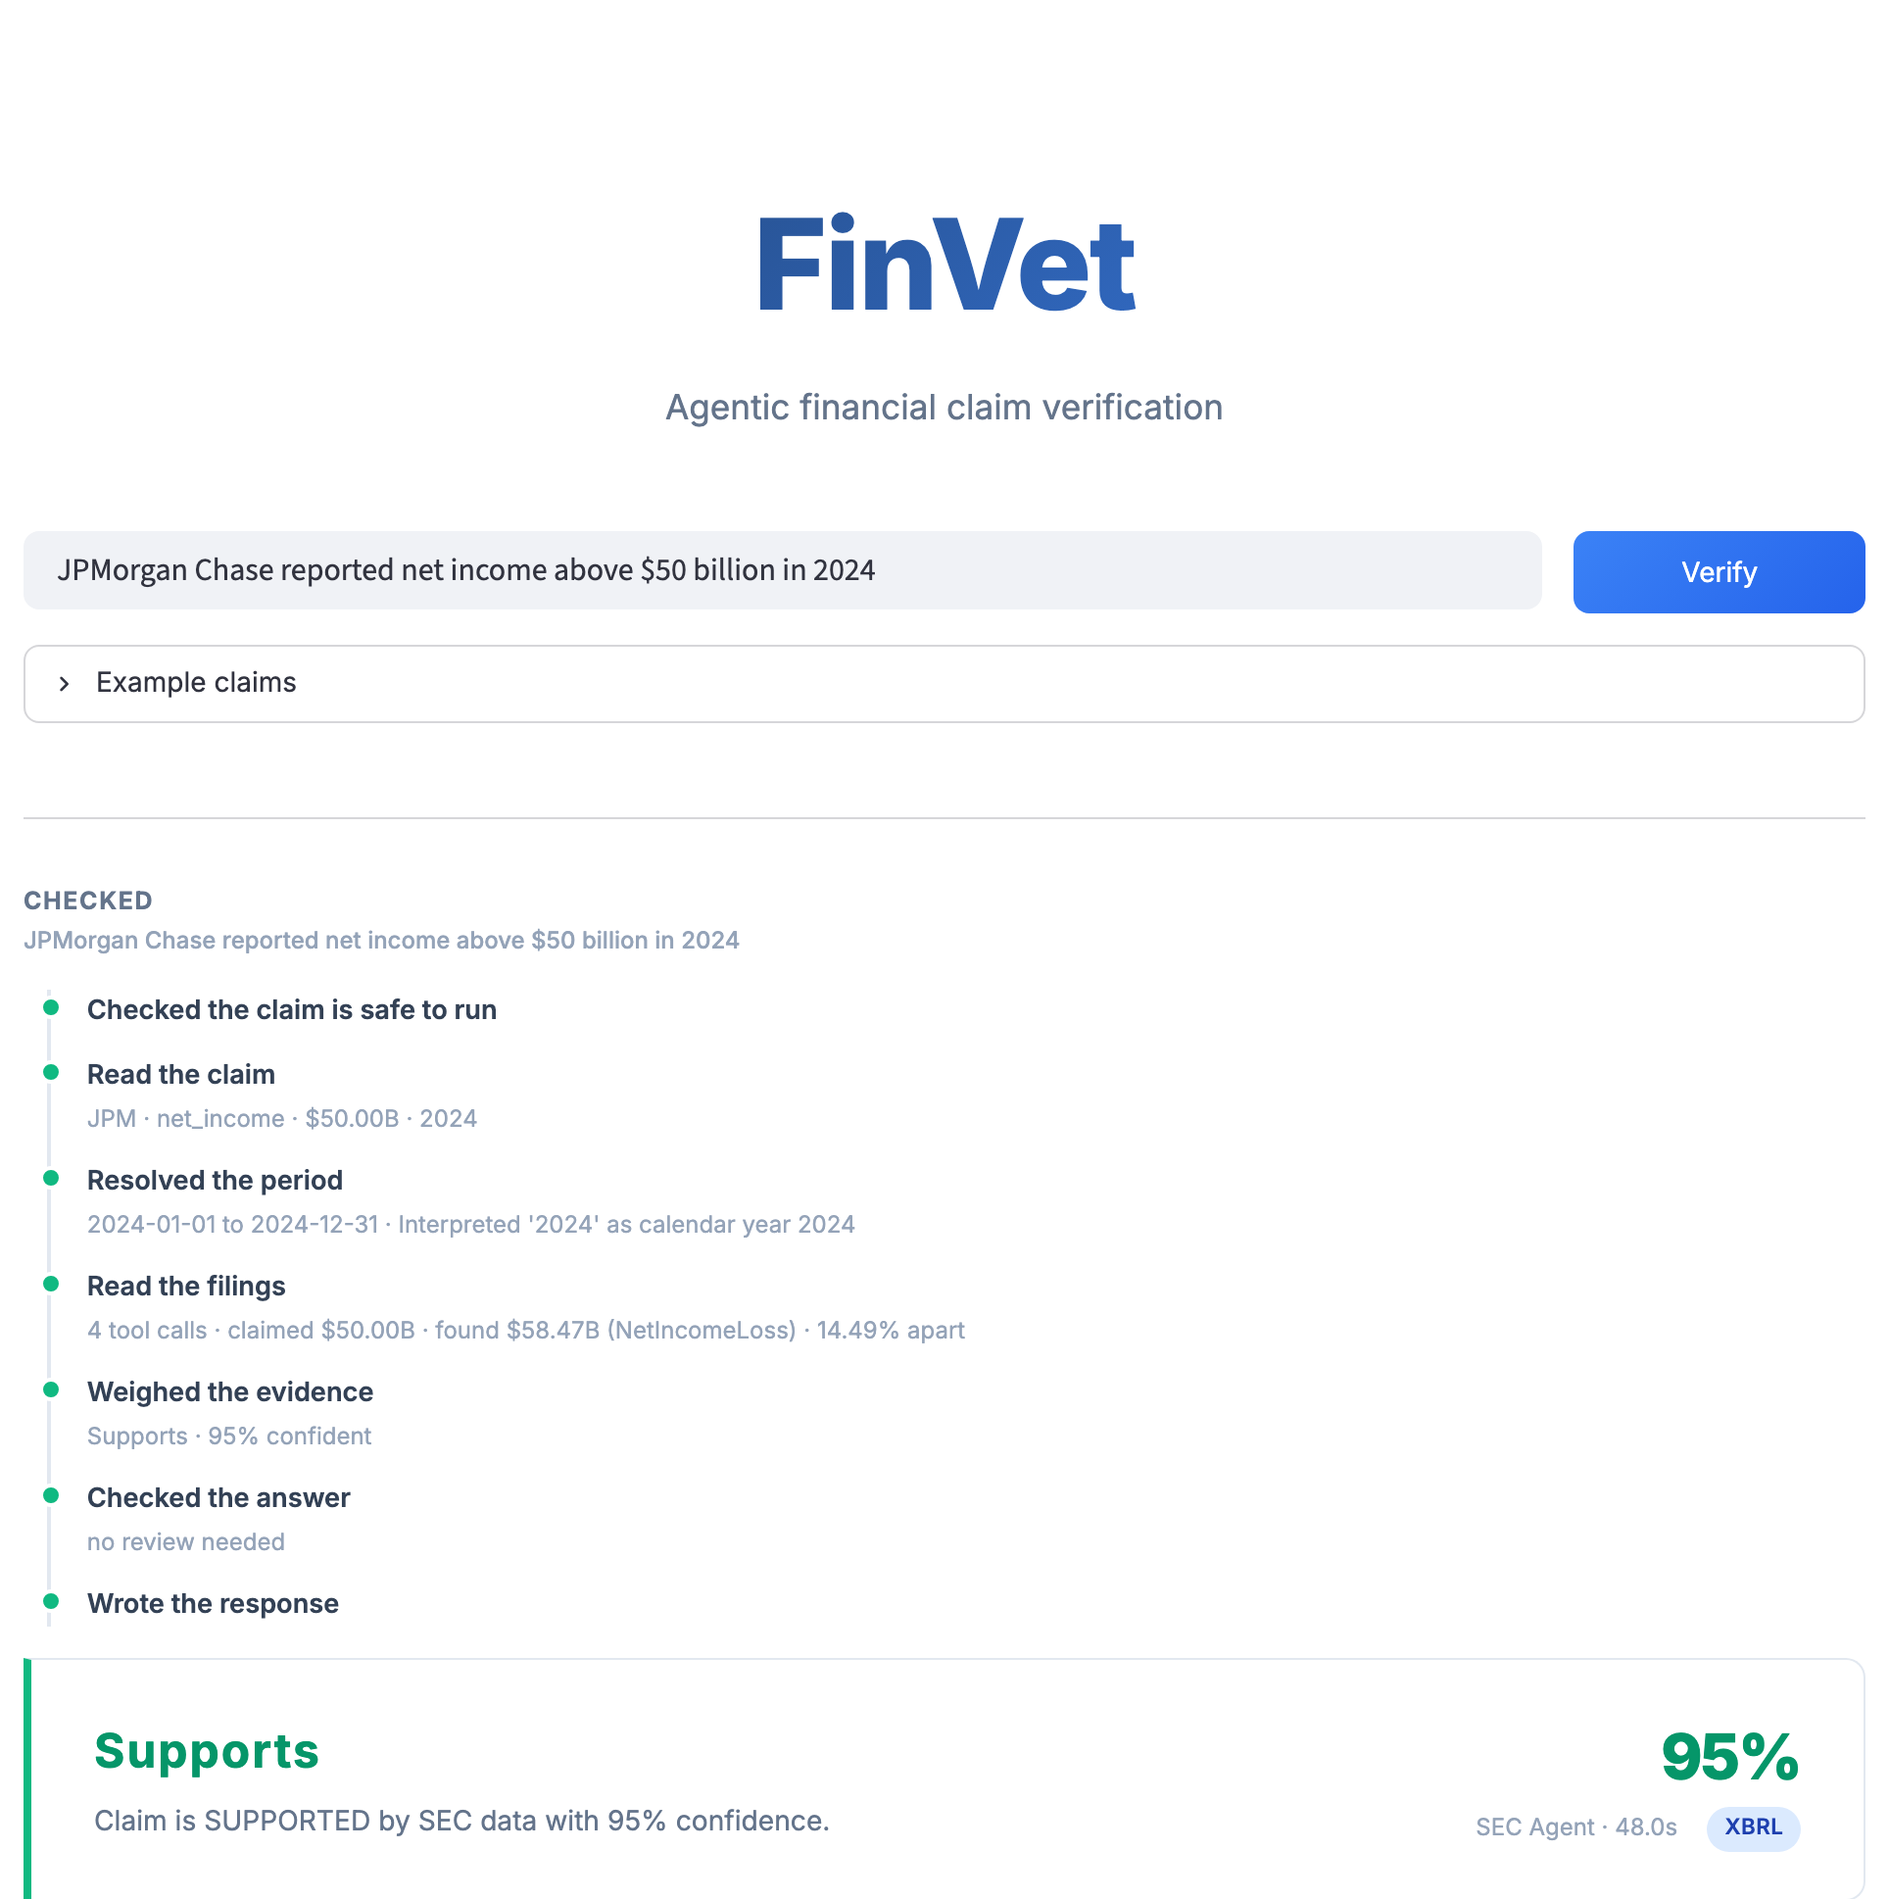
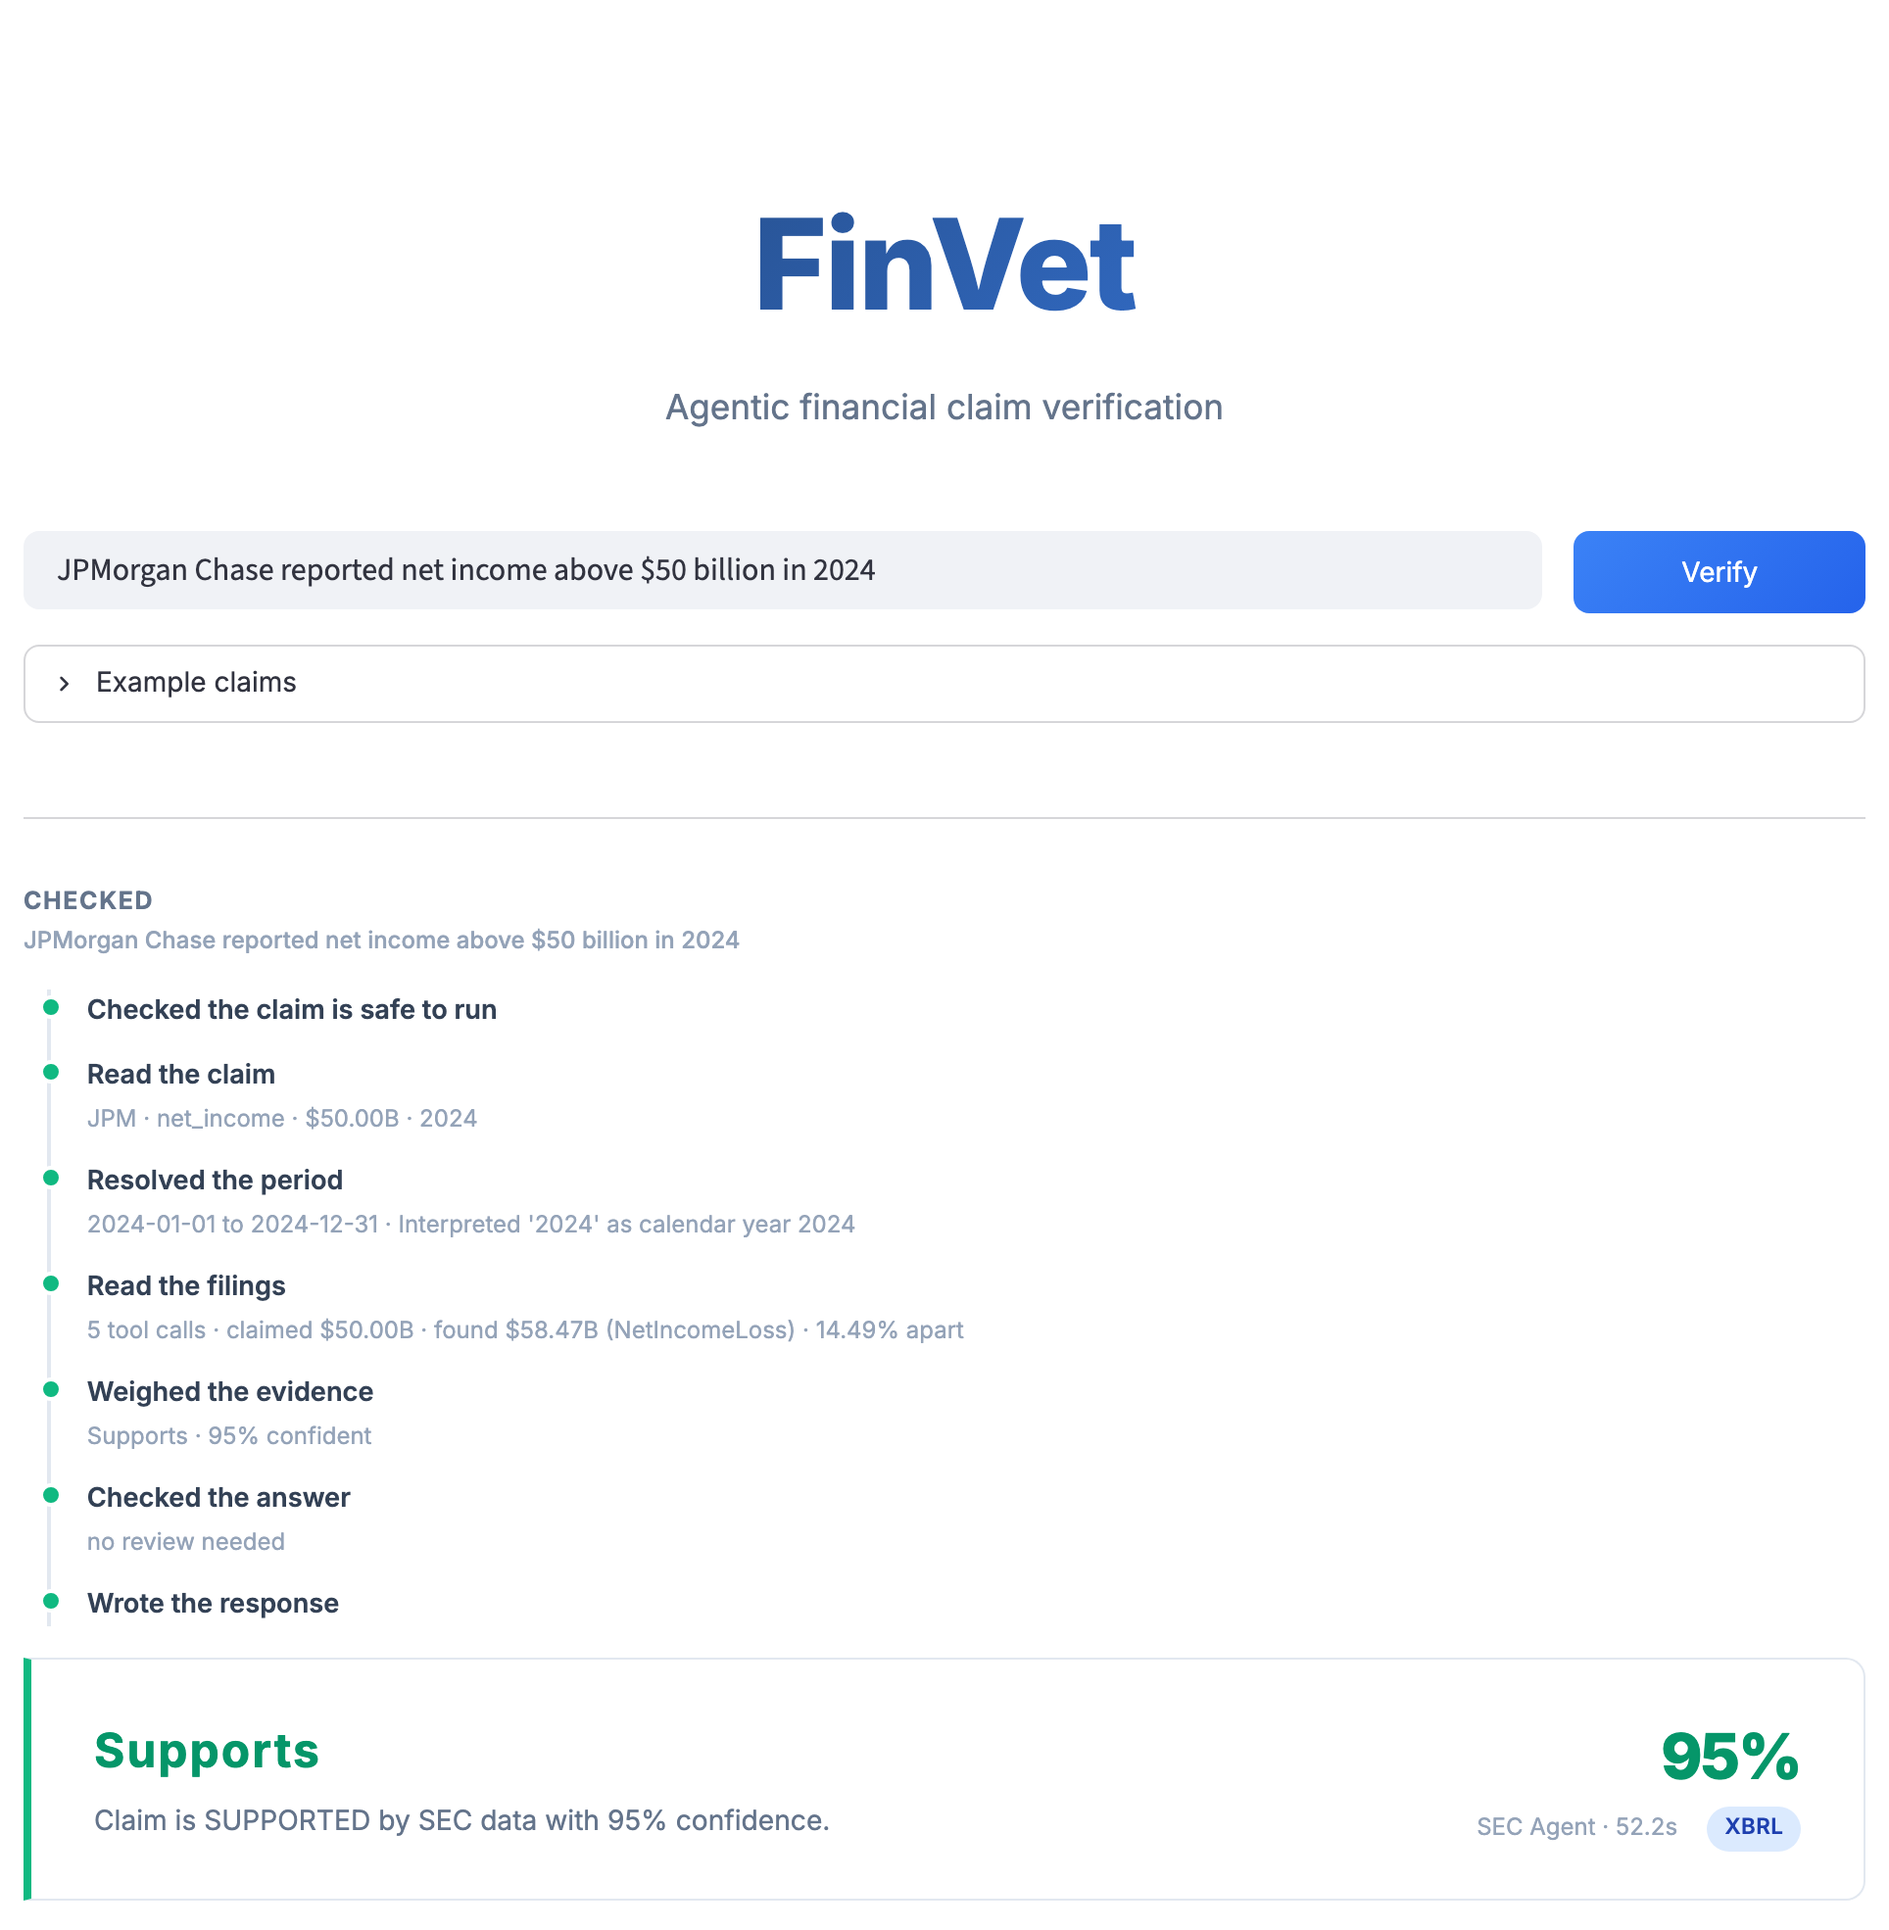
fix: raise the agent's iteration budget after the model behind the alias changed
`deepseek-chat` is an alias. The provider repointed it from deepseek-v4-flash
to deepseek-flash between two runs on the same afternoon, verified against the
completion response rather than assumed. The new model takes five tool calls
where the old took four, and a budget of 5 yields a recursion limit of 11,
which is exactly five calls with no headroom. Every claim began exhausting the
budget and escalating to human review. No code changed; the model did.

Budget 5 -> 8. FINNHUB_TIMEOUT_SECONDS 10 -> 7 moves with it, because the two
multiply and the invariant is the product: a dead market feed must not cost
more than a minute of pure waiting per claim. The guard in
test_finnhub_timeout_is_bounded.py caught the breach at 80s; the timeout came
down rather than the guarantee being relaxed. Worst case is now 56s.

Screenshots recaptured on a working run, and they now show the renamed
"Parsed Claim" expander.

Note for the benchmark: the published runs were served by deepseek-v4-flash
under the deepseek-chat alias at a budget of 5. Neither the artifacts nor
/health record the served model, only the requested name, so the drift guard
compares configuration against configuration and cannot see a provider
repointing an alias underneath it.

diff --git a/src/finvet/config/constants.py b/src/finvet/config/constants.py
@@ -37,7 +37,17 @@ CONSENSUS_MAX_CONFIDENCE = 0.95         # confidence cap
 # ---------------------------------------------------------------------------
 # Agent limits (used in base.py)
 # ---------------------------------------------------------------------------
-AGENT_MAX_ITERATIONS = 5
+# Raised from 5 on 2026-09-13. `deepseek-chat` is an alias, and the provider
+# repointed it from deepseek-v4-flash to deepseek-flash between two runs on the
+# same afternoon. The new model takes five tool calls where the old took four,
+# and a budget of 5 gives a recursion limit of 11 -- exactly five calls with no
+# headroom -- so every claim began exhausting its budget and escalating. Nothing
+# in the code changed; the model behind the name did.
+#
+# FINNHUB_TIMEOUT_SECONDS moves with this: the two multiply, and a dead feed
+# must still not cost more than a minute of pure waiting per claim. See
+# tests/unit/test_finnhub_timeout_is_bounded.py, which enforces the product.
+AGENT_MAX_ITERATIONS = 8
 AGENT_MAX_RESULT_CHARS = 50000  # ~12K tokens, safe for 131K context
 
 # How long to wait for a Finnhub quote before giving up. It was 30s, which is
@@ -45,7 +55,11 @@ AGENT_MAX_RESULT_CHARS = 50000  # ~12K tokens, safe for 131K context
 # a benchmark, the tool reported an error, the agent tried again, and single
 # claims took 600s. A quote endpoint that has not answered in 10s is not about
 # to; the cost of being wrong is one NOT_ENOUGH_INFO on a live-price claim.
-FINNHUB_TIMEOUT_SECONDS = 10.0
+# 10.0 until the iteration budget rose to 8, which would have put the worst case
+# at 80s. The bound is the product, so the timeout came down rather than the
+# guarantee being relaxed. A quote endpoint silent for 7s is no likelier to
+# answer than one silent for 10.
+FINNHUB_TIMEOUT_SECONDS = 7.0
 
 # News claims whose truth an issuer's own filing can settle, so the News agent
 # delegates to SEC even when the model does not think to. Deliberately narrow:
